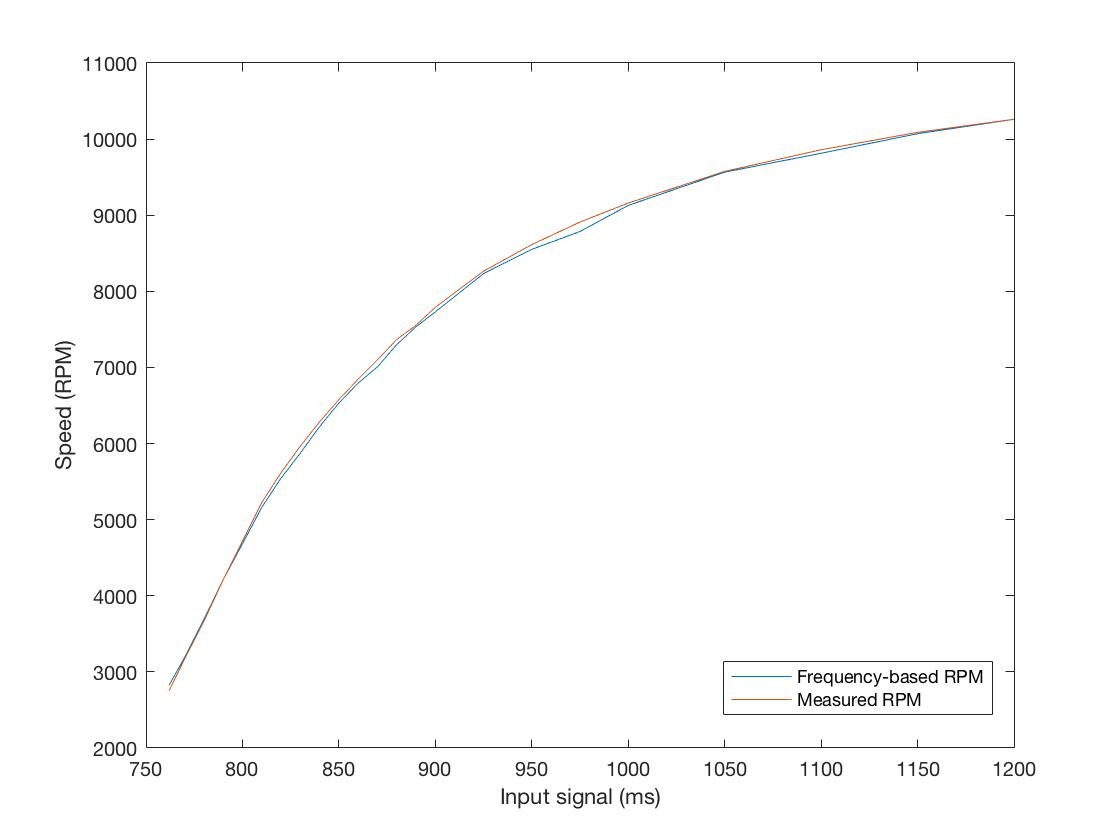
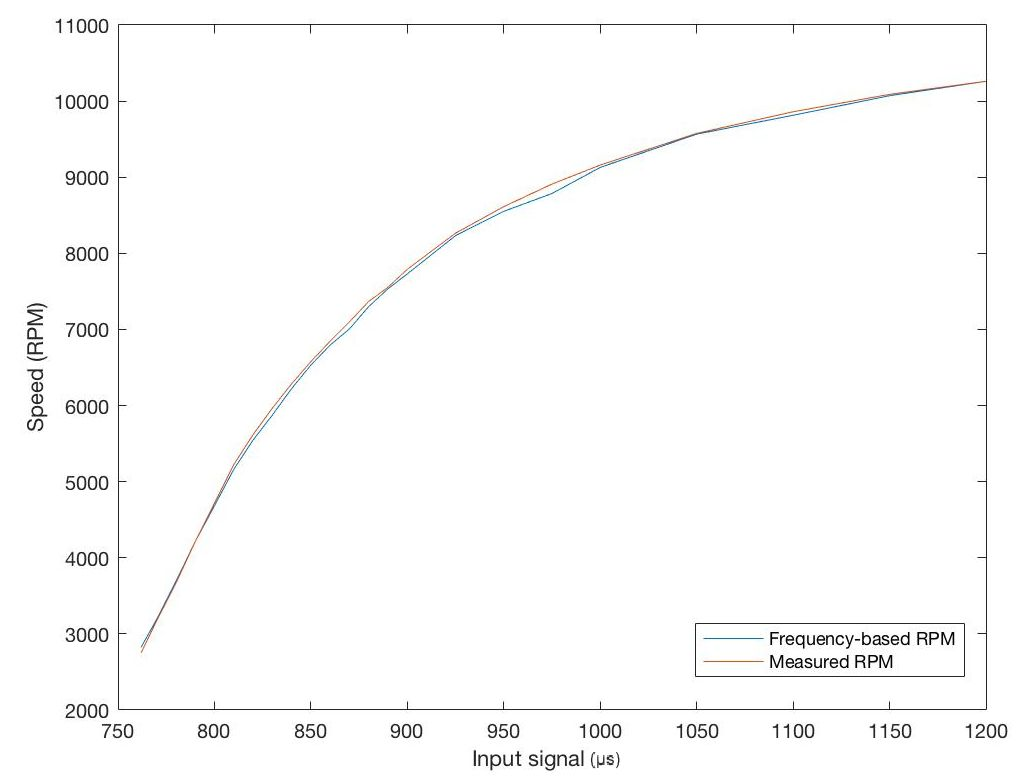
aaaaaaaa

diff --git a/report/sections/actuators.tex b/report/sections/actuators.tex
@@ -222,14 +222,16 @@ The plots of the angular velocity (see Figure \ref{radsPlots}) have revealed int
 	\label{radsPlots}
 \end{figure}
 
-In order to make use of the data, an equation with signal in microseconds as an input and angular velocity as an output had to be found. By utilising the \textit{polyfit} function in Matlab, a 2\textsuperscript{nd} order polynomial equation fitting the original graph was obtained. The equation seen in Figure \ref{RadsTrendline} can then be used as an approximation for the conversion of the sent signal in $\mu s$ into angular rate.
-%ADD NEW PLOTS FOR ALL 4 MOTORS
+In order to make use of the data, an equation with signal in microseconds as an input and angular velocity as an output had to be found. By utilising the \textit{polyfit} function in Matlab, a linear equation $1^{st}$ order polynomial equation fitting the original graph was obtained. The equation seen in Figure \ref{RadsTrendline} can then be used as an approximation for the conversion of the sent signal in $\mu s$ into angular rate.
+
 \begin{figure}[H]
   \centering
-    \includegraphics[width=1\textwidth]{images/mstorpm.jpg}
-	\caption{Converted and Plotted RPM Values and the Trendline.}
+    \includegraphics[width=1\textwidth]{images/polyfits.png}
+	\caption{Linear Relationship between Signals and Angular Velocities.}
 	\label{RadsTrendline}
 \end{figure}
+
+EQUATIONS
 
 \subsection{Operating Range}
 Due to lack of linearities in the equations expressing the angular velocity, some operating range has to be defined when calculating coefficients, to find reasonable approximates that would hold true for the most of the prototype's function. Given the drone's main objective - hovering - it is not a far-fetched idea to chose operating point as $TWR = 1$. A newtonmeter was attached to the first motor, with the propeller mounted on it. Then, a signal from the board was sent to the motor, starting at 700 and increasing by 100, up to 2400 $\mu s$. The recorded data had significant amount of noise and had to be filtered out in Matlab. Figure \ref{forcePlot} shows the measured force in newtons, where every significant increase in the force shows increment in the signal.
